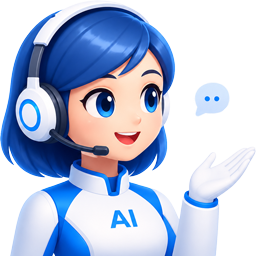
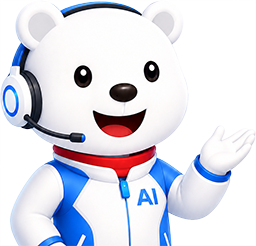
整理落地页结构与样式

diff --git a/styles.css b/styles.css
@@ -14,60 +14,51 @@
   --container: 1180px;
 }
 
-/* Compact content layout */
-.section { padding-top: 54px; padding-bottom: 54px; }
-.section-heading { margin-bottom: 24px; }
-.stats-bar .stat-single { font-size: 21px; }
-.stats-bar .stat-single > span { font-size: 36px; }
-.pain-list h3 { display: none; }
-.pain-layout + .section-footer-action { margin-top: 28px; }
-.audience-card { min-height: 132px; display: flex; align-items: center; padding: 30px 82px 30px 24px; }
-.audience-card p, .audience-card > b { display: none; }
-.audience-card h3 { margin: 0; }
-.curriculum-tabs { display: none; }
-.curriculum-columns { display: grid; grid-template-columns: repeat(2,minmax(0,1fr)); gap: 22px; align-items: start; }
-.course-column-title { display: flex; align-items: center; gap: 10px; margin: 0 0 14px; padding: 15px 18px; color: var(--ink); background: #eaf2ff; border-radius: 15px; font-size: 18px; }
-.course-column-title span { color: var(--blue); }
-.course-panel { display: block !important; }
-.course-panel .accordion-content[hidden], .faq-accordion .accordion-content[hidden] { display: block; }
-.course-panel .accordion-item h3 button, .faq-accordion .accordion-item h3 button { cursor: default; pointer-events: none; }
-.course-panel .accordion-item h3 button > b, .faq-accordion .accordion-item h3 button > b { display: none; }
-.course-panel .accordion-content { padding-top: 0; }
-.teacher-content { display: flex; flex-direction: column; }
-.teacher-talk { align-self: flex-start; margin-top: auto; padding-left: 18px; padding-right: 18px; min-height: 42px; }
-.faq-layout { display: block; }
-.faq-layout > .section-heading { max-width: 760px; margin-left: auto; margin-right: auto; text-align: center; }
-.faq-accordion { display: grid; grid-template-columns: repeat(2,minmax(0,1fr)); gap: 16px; }
-.faq-accordion .accordion-item { margin: 0; }
-.faq-action { grid-column: 1 / -1; }
-.floating-offer { position: fixed; z-index: 85; left: 0; right: 0; bottom: 0; padding: 12px 0; color: #fff; background: linear-gradient(135deg,#194b95 0%,#2174bb 58%,#16a083 100%); box-shadow: 0 -12px 35px rgba(16,50,98,.22); }
-.floating-offer .container { display: grid; grid-template-columns: auto 1fr auto; gap: 30px; align-items: center; }
-.floating-offer h2 { margin: 0; color: #fff; font-size: 25px; white-space: nowrap; }
-.floating-offer p { display: flex; justify-content: center; flex-wrap: wrap; gap: 8px 18px; margin: 0; color: #e3efff; font-size: 13px; }
-.floating-offer p span { white-space: nowrap; }
-.floating-offer .button { min-height: 48px; flex-direction: column; gap: 1px; padding: 6px 24px; background: #fff; color: var(--blue); white-space: nowrap; }
-.floating-offer .button small { color: #078c64; font-size: 10px; }
-.site-footer { padding-bottom: 92px; }
+.teachers-section { background: #fff; }
+.resources-section { background: linear-gradient(135deg,#dfebff 0%,#ddf7ed 100%); }
+.ops-comparison { overflow: hidden; background: #fff; border: 1px solid #d8e4f2; border-radius: 24px; box-shadow: 0 18px 48px rgba(34,76,135,.09); }
+.comparison-head, .ops-comparison article { display: grid; grid-template-columns: 180px 1fr 1fr; align-items: stretch; }
+.comparison-head { color: #173f77; background: #eaf2ff; border-bottom: 1px solid #d3e1f2; font-size: 15px; font-weight: 850; text-align: center; }
+.comparison-head > * { padding: 17px 22px; }
+.comparison-head > * + * { border-left: 1px solid #d3e1f2; }
+.ops-comparison article { margin: 0; border-bottom: 1px solid #e3ebf4; }
+.ops-comparison article:last-child { border-bottom: 0; }
+.ops-comparison article > * { margin: 0; padding: 16px 22px; text-align: center; }
+.ops-comparison article > * + * { border-left: 1px solid #e3ebf4; }
+.ops-comparison article > span { display: flex; align-items: center; justify-content: center; color: var(--ink); background: #f9fbff; font-size: 13px; font-weight: 850; }
+.ops-comparison article > p { color: var(--muted); font-size: 14px; line-height: 1.65; }
+.ops-comparison article > p:last-child { color: var(--ink); background: #fbfcfe; font-weight: 650; }
+
+@media (max-width: 700px) {
+  .comparison-head { display: none; }
+  .ops-comparison { display: grid; gap: 12px; padding: 12px; background: #f4f8fd; border: 0; box-shadow: none; }
+  .ops-comparison article { display: grid; grid-template-columns: 1fr; overflow: hidden; background: #fff; border: 1px solid #dce7f3; border-radius: 16px; }
+  .ops-comparison article > * { padding: 12px 15px; border-left: 0 !important; }
+  .ops-comparison article > span { border-bottom: 1px solid #e3ebf4; }
+  .ops-comparison article > p::before { display: block; margin-bottom: 4px; color: var(--ink); font-size: 11px; font-weight: 850; }
+  .ops-comparison article > p:nth-child(2)::before { content: "传统运维"; }
+  .ops-comparison article > p:last-child::before { content: "AIOps升级"; color: #087b62; }
+}
+.resource-grid { display: grid; grid-template-columns: repeat(2,minmax(0,1fr)); gap: 22px; }
+.resource-card { position: relative; min-height: 220px; overflow: hidden; padding: 24px 26px; background: rgba(255,255,255,.9); border: 1px solid rgba(255,255,255,.92); border-radius: 24px; box-shadow: 0 18px 48px rgba(35,78,132,.1); }
+.resource-card::after { content: ""; position: absolute; width: 150px; height: 150px; right: -68px; bottom: -72px; border: 24px solid rgba(37,99,235,.05); border-radius: 50%; }
+.resource-card:nth-child(2)::after { border-color: rgba(16,185,129,.07); }
+.resource-card h3 { position: relative; max-width: 520px; min-height: 34px; margin: 0 0 18px; padding-left: 46px; font-size: 21px; line-height: 1.45; }
+.resource-card h3::before { content: ""; position: absolute; left: 0; top: 1px; width: 32px; height: 32px; background: url("assets/pdf-icon.svg") center / contain no-repeat; filter: drop-shadow(0 5px 8px rgba(192,38,55,.16)); }
+.resource-card ul { position: relative; z-index: 1; display: grid; gap: 11px; margin: 0; padding: 0; list-style: none; }
+.resource-card li { position: relative; min-height: 0; padding-left: 18px; color: var(--muted); font-size: 14px; line-height: 1.65; }
+.resource-card li::before { content: ""; position: absolute; left: 0; top: .65em; width: 7px; height: 7px; background: linear-gradient(135deg,var(--blue),var(--green)); border-radius: 50%; filter: none; }
+.resource-card li::after { display: none; }
+.resource-action { margin-top: 26px; }
+.resource-gift { margin: 14px 0 0; color: #48617f; font-size: 12px; text-align: center; }
 
 @media (max-width: 860px) {
-  .section { padding-top: 48px; padding-bottom: 48px; }
-  .curriculum-columns, .faq-accordion { grid-template-columns: 1fr; }
-  .floating-offer .container { grid-template-columns: 1fr auto; gap: 10px 16px; }
-  .floating-offer h2 { font-size: 19px; }
-  .floating-offer p { grid-column: 1 / -1; grid-row: 2; justify-content: flex-start; font-size: 11px; }
+  .resource-grid { grid-template-columns: 1fr; }
 }
 
 @media (max-width: 600px) {
-  .section { padding-top: 42px; padding-bottom: 42px; }
-  .stats-bar .stat-single { font-size: 12px; }
-  .stats-bar .stat-single > span { font-size: 25px; }
-  .audience-card { min-height: 108px; padding: 24px 72px 24px 20px; }
-  .floating-offer { bottom: 69px; }
-  .floating-offer p { display: none; }
-  .floating-offer .container { grid-template-columns: 1fr auto; }
-  .floating-offer h2 { font-size: 16px; white-space: normal; }
-  .floating-offer .button { min-height: 42px; padding: 5px 14px; }
-  .site-footer { padding-bottom: 150px; }
+  .resource-card { min-height: 0; padding: 22px; }
+  .resource-card h3 { font-size: 18px; }
 }
 
 * { box-sizing: border-box; }
@@ -541,6 +532,9 @@ h1 em, h2 em { color: transparent; background: linear-gradient(100deg,var(--blue
   *, *::before, *::after { animation-duration: .01ms !important; animation-iteration-count: 1 !important; transition-duration: .01ms !important; }
   .reveal { opacity: 1; transform: none; }
 }
+
+.teachers-section { background: #fff; }
+.resources-section { background: linear-gradient(135deg,#dfebff 0%,#ddf7ed 100%); }
 
 /* Final compact overrides */
 .section { padding-top: 44px; padding-bottom: 44px; }

diff --git a/index.html b/index.html
@@ -57,39 +57,14 @@
 
     <section class="section pain-section" id="why">
       <div class="container">
-        <div class="section-heading wide-heading reveal"><h2>从传统运维到<em>AI运维</em></h2><p>随着大模型快速落地，越来越多企业开始将AI接入监控、日志、告警和自动化运维流程。能够把AI与运维结合的人，将拥有更强的竞争力。</p></div>
-        <div class="pain-layout">
-          <div class="pain-visual-column">
-          <div class="pain-visual reveal" aria-label="AIOps多源数据智能分析与自动处置示意图">
-            <div class="ops-grid"></div>
-            <div class="source-stack">
-              <div class="source-item source-blue"><i>Z</i><span><b>Zabbix</b><small>告警事件</small></span><em>128</em></div>
-              <div class="source-item source-green"><i>P</i><span><b>Prometheus</b><small>指标数据</small></span><em>2.4k</em></div>
-              <div class="source-item source-cyan"><i>E</i><span><b>EFK</b><small>实时日志</small></span><em>8.6k</em></div>
-            </div>
-            <div class="flow-rail"><i></i><i></i><i></i></div>
-            <div class="ai-engine">
-              <div class="engine-orbit"><span>AI</span><i></i><i></i><i></i></div>
-              <small>AIOPS ANALYSIS ENGINE</small>
-              <b>实时关联分析</b>
-              <div class="engine-status"><span></span>模型推理中</div>
-            </div>
-            <div class="insight-panel">
-              <div class="insight-head"><span>ROOT CAUSE</span><em>置信度 96%</em></div>
-              <strong>K8s Pod 内存泄漏</strong>
-              <p>关联 37 条告警与 1,284 条日志，已定位异常服务。</p>
-              <div class="insight-metrics"><span><i></i>噪声归并 73%</span><span><i></i>诊断耗时 3.2s</span></div>
-            </div>
-            <div class="auto-action"><span>✓</span><div><b>自动处置建议已生成</b><small>动态阈值 · Pod重启 · SOP调用</small></div></div>
-          </div>
-          </div>
-          <div class="pain-list reveal">
-            <article><span>01</span><div><h3>告警太多</h3><p class="pain-problem">传统运维：告警太多，人工排查效率低。</p><div class="upgrade-direction"><b>AIOps升级</b><p>AI自动分析告警并生成处理建议。</p></div></div></article>
-            <article><span>02</span><div><h3>日志繁杂</h3><p class="pain-problem">传统运维：日志繁杂，定位问题困难。</p><div class="upgrade-direction"><b>AIOps升级</b><p>AI智能日志归因与异常分析。</p></div></div></article>
-            <article><span>03</span><div><h3>阈值依赖经验</h3><p class="pain-problem">传统运维：监控阈值主要依靠人工经验设置。</p><div class="upgrade-direction"><b>AIOps升级</b><p>AI自动生成监控阈值。</p></div></div></article>
-            <article><span>04</span><div><h3>排障依赖个人</h3><p class="pain-problem">传统运维：关键经验难以沉淀和复用。</p><div class="upgrade-direction"><b>AIOps升级</b><p>知识库与智能体沉淀经验。</p></div></div></article>
-            <article><span>05</span><div><h3>重复工作繁琐</h3><p class="pain-problem">传统运维：巡检、重启、发布等工作长期占用时间。</p><div class="upgrade-direction"><b>AIOps升级</b><p>Python + K8s + MCP自动化运维。</p></div></div></article>
-          </div>
+        <div class="section-heading wide-heading reveal"><h2>从传统运维到<em>AI运维</em></h2><p>越来越多企业开始将AI接入监控、日志、告警和自动化运维流程，能够把AI与运维结合的人，将拥有更强的竞争力。</p></div>
+        <div class="ops-comparison reveal">
+          <div class="comparison-head"><span>运维场景</span><strong>传统运维</strong><strong>AIOps升级 🔥</strong></div>
+          <article><span>告警处理</span><p>告警数量多，依赖人工逐条排查，处理效率低</p><p>AI自动聚合分析告警，并生成处理建议</p></article>
+          <article><span>日志分析</span><p>日志分散且繁杂，人工检索难以快速定位问题</p><p>AI智能完成日志归因、异常识别与根因分析</p></article>
+          <article><span>阈值设置</span><p>监控阈值主要依靠个人经验，容易误报或漏报</p><p>AI结合历史数据自动生成并持续优化阈值</p></article>
+          <article><span>故障排查</span><p>关键经验依赖资深人员，难以沉淀和复用</p><p>知识库与智能体沉淀经验，辅助快速诊断</p></article>
+          <article><span>重复任务</span><p>巡检、重启、发布等工作长期占用人工时间</p><p>Python + K8s + MCP实现自动化智能运维</p></article>
         </div>
         <div class="section-footer-action reveal"><button class="button" type="button" data-open-lead-modal>了解课程详情</button></div>
       </div>
@@ -124,12 +99,8 @@
         </ol>
 
         <div class="section-heading centered curriculum-heading reveal"><h2>AIOps课程内容介绍</h2><p>18大精品模块，覆盖AI+运维完整技术体系</p></div>
-        <div class="curriculum-tabs reveal" role="tablist" aria-label="课程模块类型">
-          <button class="curriculum-tab active" type="button" role="tab" aria-selected="true" aria-controls="required-panel" id="required-tab" data-course-tab="required-panel"><span>10</span> 核心必修模块</button>
-          <button class="curriculum-tab" type="button" role="tab" aria-selected="false" aria-controls="advanced-panel" id="advanced-tab" data-course-tab="advanced-panel"><span>8</span> 进阶选修模块</button>
-        </div>
         <div class="curriculum-columns">
-        <div class="course-panel active" id="required-panel" role="tabpanel" aria-labelledby="required-tab">
+        <div class="course-panel active" id="required-panel">
           <h3 class="course-column-title">必修模块</h3>
           <div class="accordion course-accordion">
             <article class="accordion-item"><h3><button type="button" aria-expanded="true"><span><i>01</i>AI大模型与开发基础</span><b>−</b></button></h3><div class="accordion-content"><p>学习大模型、Prompt、Agent、RAG等核心概念，建立AI应用开发基础认知。</p></div></article>
@@ -144,7 +115,7 @@
             <article class="accordion-item"><h3><button type="button" aria-expanded="false"><span><i>10</i>企业级AIOps实战</span><b>+</b></button></h3><div class="accordion-content" hidden><p>综合监控、告警、日志、Kubernetes与AI能力，完成企业级AIOps项目落地。</p></div></article>
           </div>
         </div>
-        <div class="course-panel" id="advanced-panel" role="tabpanel" aria-labelledby="advanced-tab">
+        <div class="course-panel" id="advanced-panel">
           <h3 class="course-column-title">进阶模块</h3>
           <div class="accordion course-accordion">
             <article class="accordion-item"><h3><button type="button" aria-expanded="true"><span><i>A1</i>VibeCoding</span><b>−</b></button></h3><div class="accordion-content"><p>学习VibeCoding思维、提示词实战、Cursor开发与智能体应用构建。</p></div></article>
@@ -212,6 +183,18 @@
       </div>
     </section>
 
+    <section class="section resources-section" id="resources">
+      <div class="container">
+        <div class="section-heading reveal"><h2>学习资料免费领</h2></div>
+        <div class="resource-grid">
+          <article class="resource-card reveal"><h3>企业级智能运维助手：从私有化部署到知识库落地</h3><ul><li>DeepSeek + RAG 构建企业专属运维助手</li><li>打通私有知识库与大模型智能问答</li><li>掌握企业级 AI 运维私有化落地全流程</li></ul></article>
+          <article class="resource-card reveal"><h3>AI智能运维实战：告警降噪与故障根因分析</h3><ul><li>Prometheus + LLM 实现智能阈值优化与告警降噪</li><li>SkyWalking + LLM 自动定位微服务故障根因</li><li>覆盖告警分析、链路追踪、故障诊断核心场景</li></ul></article>
+        </div>
+        <div class="section-footer-action resource-action reveal"><button class="button" type="button" data-open-lead-modal>0元领取全套资料</button></div>
+        <p class="resource-gift reveal">加赠《DeepSeek使用指南：打造专属你的AI生产力引擎》</p>
+      </div>
+    </section>
+
     <section class="section faq-section" id="faq">
       <div class="container faq-layout">
         <div class="section-heading reveal"><h2>常见问题</h2><p>如果还有其他问题，可以提交咨询，我们会根据你的基础和目标给出学习建议。</p></div>
@@ -225,7 +208,7 @@
       </div>
     </section>
 
-    <aside class="floating-offer"><div class="container"><div class="offer-mascot" aria-hidden="true"><img src="assets/customer-service.png" alt=""></div><h2>随报随学，直接开课</h2><p><span>120+小时</span><span>18大模块</span><span>6大企业级实战</span><span>支持花呗分期</span><span>可开发票</span></p><button class="button" type="button" data-open-lead-modal><small>限时优惠</small>马上咨询</button></div></aside>
+    <aside class="floating-offer"><div class="container"><div class="offer-mascot" aria-hidden="true"><img src="assets/customer-service.png" alt=""></div><h2>随报随学，即时开课</h2><p><span>120+小时</span><span>18大模块</span><span>6大企业级实战</span><span>支持花呗分期</span><span>可开发票</span></p><button class="button" type="button" data-open-lead-modal><small>限时优惠</small>马上咨询</button></div></aside>
   </main>
 
   <footer class="site-footer">